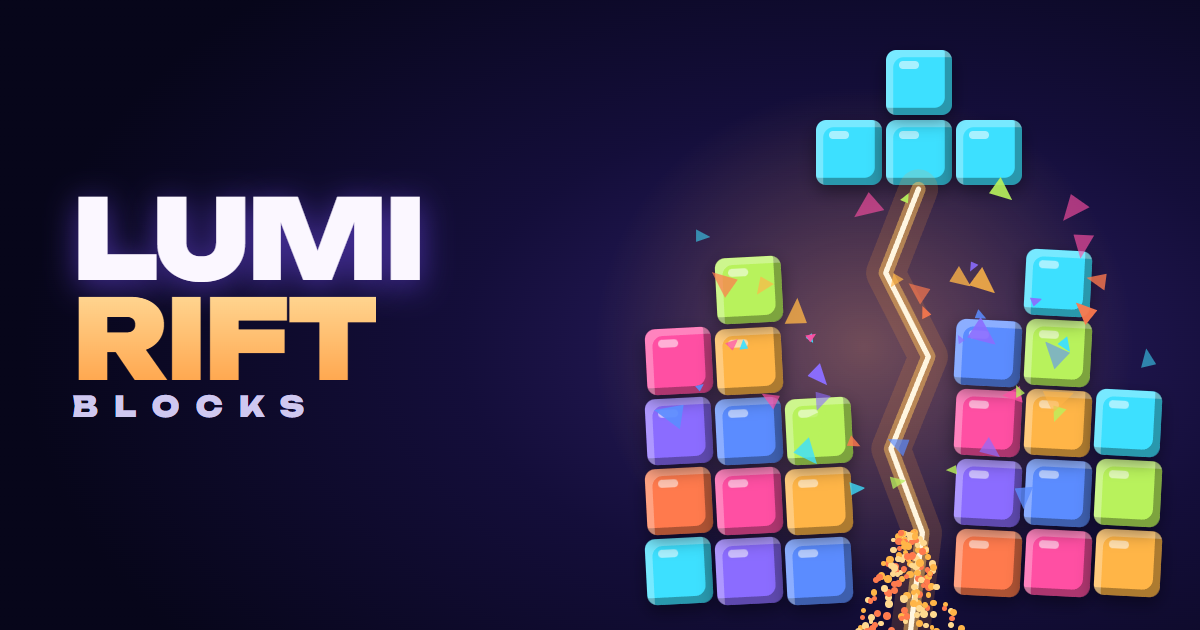
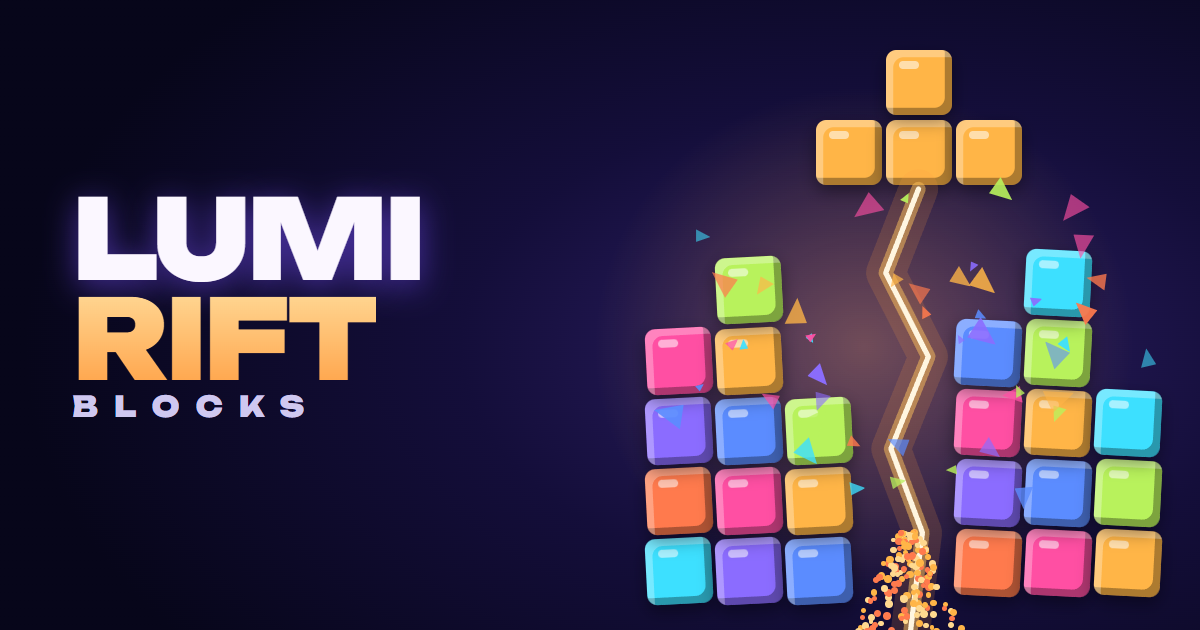
feat: couleurs des pièces loin du standard du genre (1.11.0)
Les sept joyaux sont redistribués : I rose, O violet, T ambre, S cyan,
Z citron vert, J corail, L bleu. L'interface lit des jetons --jewel-*
séparés des teintes des pièces, ses couleurs ne changent pas.
Couvertures, vidéos et image de partage refaites.

Changed region(s): [[0.6783, 0.0603, 0.8633, 0.3016]]

diff --git a/src/ui/hub/AtelierPage.vue b/src/ui/hub/AtelierPage.vue
@@ -343,7 +343,7 @@ watch([material, shatter, ambiance], async () => {
 .kinds button[aria-pressed='true'] {
   background: linear-gradient(
     180deg,
-    color-mix(in srgb, var(--surface-2) 70%, var(--tone-3)),
+    color-mix(in srgb, var(--surface-2) 70%, var(--jewel-violet)),
     var(--surface-2)
   );
   color: var(--text);
@@ -427,9 +427,9 @@ watch([material, shatter, ambiance], async () => {
 
 /* Tried on the stage, not worn yet. */
 .item--shown {
-  border-color: var(--tone-3);
+  border-color: var(--jewel-violet);
   box-shadow:
-    0 0 0 2px color-mix(in srgb, var(--tone-3) 55%, transparent),
+    0 0 0 2px color-mix(in srgb, var(--jewel-violet) 55%, transparent),
     0 4px 0 var(--surface-edge);
 }
 
@@ -451,8 +451,8 @@ watch([material, shatter, ambiance], async () => {
   width: 0.5rem;
   height: 0.5rem;
   border-radius: 50%;
-  background: var(--tone-5);
-  box-shadow: 0 0 0.5rem color-mix(in srgb, var(--tone-5) 70%, transparent);
+  background: var(--jewel-rose);
+  box-shadow: 0 0 0.5rem color-mix(in srgb, var(--jewel-rose) 70%, transparent);
 }
 
 .item__new {
@@ -461,13 +461,13 @@ watch([material, shatter, ambiance], async () => {
   left: var(--space-2);
   padding: 0.1rem 0.4rem;
   border-radius: 999px;
-  background: var(--tone-5);
+  background: var(--jewel-rose);
   color: var(--bg);
   font-size: 0.6rem;
   font-weight: 800;
   letter-spacing: 0.05em;
   text-transform: uppercase;
-  box-shadow: 0 0.25rem 0.7rem color-mix(in srgb, var(--tone-5) 45%, transparent);
+  box-shadow: 0 0.25rem 0.7rem color-mix(in srgb, var(--jewel-rose) 45%, transparent);
 }
 
 .item__lock {

diff --git a/src/styles/tokens.css b/src/styles/tokens.css
@@ -52,14 +52,23 @@
   --well-glow: rgb(120 90 255 / 0.22);
   --well-halo: rgb(74 63 134 / 0.18);
 
-  --tone-1: #3de0ff;
-  --tone-2: #ffb547;
-  --tone-3: #8b6cff;
-  --tone-4: #b8f25c;
-  --tone-5: #ff4fa3;
-  --tone-6: #5b8cff;
-  --tone-7: #ff7a4d;
-  --tone-8: #ff4fa3;
+  /* The jewels: the interface names them, the pieces wear them. */
+  --jewel-cyan: #3de0ff;
+  --jewel-amber: #ffb547;
+  --jewel-violet: #8b6cff;
+  --jewel-lime: #b8f25c;
+  --jewel-rose: #ff4fa3;
+  --jewel-blue: #5b8cff;
+  --jewel-coral: #ff7a4d;
+
+  --tone-1: var(--jewel-rose);
+  --tone-2: var(--jewel-violet);
+  --tone-3: var(--jewel-amber);
+  --tone-4: var(--jewel-cyan);
+  --tone-5: var(--jewel-lime);
+  --tone-6: var(--jewel-coral);
+  --tone-7: var(--jewel-blue);
+  --tone-8: var(--jewel-rose);
   --tone-9: #ffe15c;
   --tone-10: #2ad1b0;
   --tone-11: #7d5cff;

diff --git a/src/ui/hub/MapPage.vue b/src/ui/hub/MapPage.vue
@@ -330,7 +330,7 @@ const shopOpen = ref(false);
 }
 
 .node {
-  --family: var(--tone-3);
+  --family: var(--jewel-violet);
   position: absolute;
   left: var(--x);
   top: var(--y);
@@ -338,15 +338,15 @@ const shopOpen = ref(false);
 }
 
 .node[data-family='sand'] {
-  --family: var(--tone-2);
+  --family: var(--jewel-amber);
 }
 
 .node[data-family='placement'] {
-  --family: var(--tone-5);
+  --family: var(--jewel-rose);
 }
 
 .node[data-family='volume'] {
-  --family: var(--tone-1);
+  --family: var(--jewel-cyan);
 }
 
 .node__button {
@@ -373,7 +373,7 @@ const shopOpen = ref(false);
   border-radius: 50%;
   background: linear-gradient(
     180deg,
-    color-mix(in srgb, var(--surface-2) 78%, var(--tone-3)),
+    color-mix(in srgb, var(--surface-2) 78%, var(--jewel-violet)),
     var(--surface-2)
   );
   box-shadow:

diff --git a/src/ui/screens/HubScreen.vue b/src/ui/screens/HubScreen.vue
@@ -377,7 +377,7 @@ onMounted(() => {
   border-radius: 1.125rem;
   background: linear-gradient(
     180deg,
-    color-mix(in srgb, var(--surface-2) 70%, var(--tone-3)),
+    color-mix(in srgb, var(--surface-2) 70%, var(--jewel-violet)),
     var(--surface-2)
   );
   box-shadow:
@@ -434,13 +434,13 @@ onMounted(() => {
   height: 1.1rem;
   padding: 0 0.3rem;
   border-radius: 999px;
-  background: var(--tone-5);
+  background: var(--jewel-rose);
   color: var(--bg);
   font-size: 0.65rem;
   line-height: 1.1rem;
   letter-spacing: 0;
   text-align: center;
-  box-shadow: 0 0.2rem 0.6rem color-mix(in srgb, var(--tone-5) 50%, transparent);
+  box-shadow: 0 0.2rem 0.6rem color-mix(in srgb, var(--jewel-rose) 50%, transparent);
 }
 
 .tab[aria-selected='true'] :deep(svg) {

diff --git a/src/ui/hub/ModesPage.vue b/src/ui/hub/ModesPage.vue
@@ -120,7 +120,7 @@ const onVariant = (variant: string) => {
 }
 
 .tile {
-  --family: var(--tone-3);
+  --family: var(--jewel-violet);
   position: relative;
   grid-column: span 2;
   min-height: 0;
@@ -151,15 +151,15 @@ const onVariant = (variant: string) => {
 }
 
 .tile[data-family='sand'] {
-  --family: var(--tone-2);
+  --family: var(--jewel-amber);
 }
 
 .tile[data-family='placement'] {
-  --family: var(--tone-5);
+  --family: var(--jewel-rose);
 }
 
 .tile[data-family='volume'] {
-  --family: var(--tone-1);
+  --family: var(--jewel-cyan);
 }
 
 .tile--big {

diff --git a/src/ui/components/GameOverDialog.vue b/src/ui/components/GameOverDialog.vue
@@ -279,13 +279,13 @@ const shownScore = computed(() =>
   top: -0.7rem;
   padding: 0.25rem 0.65rem;
   border-radius: 999px;
-  background: var(--tone-5);
+  background: var(--jewel-rose);
   color: var(--bg);
   font-size: 0.7rem;
   font-weight: 800;
   letter-spacing: 0.06em;
   text-transform: uppercase;
-  box-shadow: 0 0.4rem 1.1rem color-mix(in srgb, var(--tone-5) 50%, transparent);
+  box-shadow: 0 0.4rem 1.1rem color-mix(in srgb, var(--jewel-rose) 50%, transparent);
   animation: pop 520ms var(--ease-spring) 900ms both;
 }
 

diff --git a/src/styles/sheet.css b/src/styles/sheet.css
@@ -24,7 +24,7 @@
   border-radius: 1.75rem 1.75rem 0 0;
   background: linear-gradient(
     180deg,
-    color-mix(in srgb, var(--surface-2) 86%, var(--tone-3)),
+    color-mix(in srgb, var(--surface-2) 86%, var(--jewel-violet)),
     var(--surface) 70%
   );
   color: var(--text);

diff --git a/docs/CRAZYGAMES.md b/docs/CRAZYGAMES.md
@@ -20,16 +20,16 @@ Sources (relues le 20/10/2026) : [Requirements](https://docs.crazygames.com/requ
 
 ### Ce qui a changé depuis la 1.2.0 refusée (à résumer dans le message de soumission)
 
-| Reproche probable (diagnostic du 14/10/2026) | Depuis                                                                                                                                               |
-| -------------------------------------------- | ---------------------------------------------------------------------------------------------------------------------------------------------------- |
-| Accueil de « web app », menu qui défile      | Écran-titre vivant (gemmes, faille), menu en quatre pages à onglets sans défilement, transition de la faille (1.8)                                   |
-| Identité générique, premier mode = clone     | Nom « Lumirift Blocks », identité « Rift » (gemmes gravées, faille dorée, polices propres) ; la campagne s'ouvre sur le Sable, mode inédit (1.4–1.5) |
-| Petit plateau dans un grand écran vide       | Plus d'en-tête pendant la partie, puits sur toute la hauteur, tableau de bord rangé contre le puits (console centrée), paysage jouable (1.7, 1.10)   |
-| Pas de musique                               | Musique générative par famille, sons synthétisés (1.4)                                                                                               |
-| Pas de prise en main                         | Première partie guidée pas à pas (passable), 1-1 calme (une seule idée), touches dessinées à côté du jeu (1.4, 1.10)                                 |
-| Échap et Ctrl utilisés                       | Plus aucun : P pour la pause, Retour arrière pour annuler dans la Mosaïque ; sur les portails, Échap ne ferme même plus une fenêtre (1.4, 1.10)      |
-| Effets plats                                 | Chute instantanée animée, lignes qui éclatent en éclats de gemme, résultats mis en scène (score qui défile, barre d'XP), feuilles animées (1.7, 1.9) |
-| Téléphone                                    | Tout au doigt (gestes partout), aucun défilement, portrait et paysage, fenêtres qui tiennent à l'écran (1.7–1.9)                                     |
+| Reproche probable (diagnostic du 14/10/2026) | Depuis                                                                                                                                                                                                       |
+| -------------------------------------------- | ------------------------------------------------------------------------------------------------------------------------------------------------------------------------------------------------------------ |
+| Accueil de « web app », menu qui défile      | Écran-titre vivant (gemmes, faille), menu en quatre pages à onglets sans défilement, transition de la faille (1.8)                                                                                           |
+| Identité générique, premier mode = clone     | Nom « Lumirift Blocks », identité « Rift » (gemmes gravées, faille dorée, polices propres) ; la campagne s'ouvre sur le Sable, mode inédit (1.4–1.5) ; aucune pièce aux couleurs du standard du genre (1.11) |
+| Petit plateau dans un grand écran vide       | Plus d'en-tête pendant la partie, puits sur toute la hauteur, tableau de bord rangé contre le puits (console centrée), paysage jouable (1.7, 1.10)                                                           |
+| Pas de musique                               | Musique générative par famille, sons synthétisés (1.4)                                                                                                                                                       |
+| Pas de prise en main                         | Première partie guidée pas à pas (passable), 1-1 calme (une seule idée), touches dessinées à côté du jeu (1.4, 1.10)                                                                                         |
+| Échap et Ctrl utilisés                       | Plus aucun : P pour la pause, Retour arrière pour annuler dans la Mosaïque ; sur les portails, Échap ne ferme même plus une fenêtre (1.4, 1.10)                                                              |
+| Effets plats                                 | Chute instantanée animée, lignes qui éclatent en éclats de gemme, résultats mis en scène (score qui défile, barre d'XP), feuilles animées (1.7, 1.9)                                                         |
+| Téléphone                                    | Tout au doigt (gestes partout), aucun défilement, portrait et paysage, fenêtres qui tiennent à l'écran (1.7–1.9)                                                                                             |
 
 ## Produire le build et les médias
 
@@ -103,7 +103,7 @@ langue, sauvegarde, coupure du son et publicités. Notre site ne charge jamais l
 - **Genre** : Puzzle (blocs qui tombent). **Public** : PEGI 3 de fait (aucune violence, aucun
   achat, aucun chat).
 
-## Contrôle des exigences (1.10.0)
+## Contrôle des exigences (1.11.0)
 
 Légende : ✅ conforme, vérifié · 🟡 conforme, vérification humaine à faire sur le portail ·
 ➖ sans objet.
@@ -168,16 +168,16 @@ autre façon de gagner le bonus.
 
 ### Covers et vidéos
 
-| Exigence                                                   | Statut | Preuve                                                                    |
-| ---------------------------------------------------------- | ------ | ------------------------------------------------------------------------- |
-| Paysage 1920 × 1080, portrait 800 × 1200, carrée 800 × 800 | ✅     | Générées aux dimensions exactes                                           |
-| Visuels cohérents entre les trois                          | ✅     | Même scène : pile de gemmes, faille, éclats, titre                        |
-| Seul texte : le titre                                      | ✅     | « Lumirift Blocks » uniquement                                            |
-| Pas de bordure, d'icône de store ni de visuel sous droits  | ✅     | Logo du jeu seulement                                                     |
-| Vidéo 15 à 20 s, ≤ 50 Mo, 1080p paysage et portrait 2:3    | ✅     | 17,9 s ; 1920 × 1080 et 1080 × 1620 ; refaites en 1.10 avec le jeu actuel |
-| Pas d'écran noir, de bandes noires, de curseur, de texte   | ✅     | Images rendues directement, plein cadre ; s'ouvre sur la cover            |
-| Sans son, pas d'accéléré                                   | ✅     | Aucune piste audio ; rendu image par image (30 i/s)                       |
-| Format                                                     | 🟡     | WebM (VP9) : convertir en MP4 (HandBrake) si le portail le refuse         |
+| Exigence                                                   | Statut | Preuve                                                                             |
+| ---------------------------------------------------------- | ------ | ---------------------------------------------------------------------------------- |
+| Paysage 1920 × 1080, portrait 800 × 1200, carrée 800 × 800 | ✅     | Générées aux dimensions exactes                                                    |
+| Visuels cohérents entre les trois                          | ✅     | Même scène : pile de gemmes, faille, éclats, titre                                 |
+| Seul texte : le titre                                      | ✅     | « Lumirift Blocks » uniquement                                                     |
+| Pas de bordure, d'icône de store ni de visuel sous droits  | ✅     | Logo du jeu seulement                                                              |
+| Vidéo 15 à 20 s, ≤ 50 Mo, 1080p paysage et portrait 2:3    | ✅     | 17,9 s ; 1920 × 1080 et 1080 × 1620 ; refaites en 1.11 avec les nouvelles couleurs |
+| Pas d'écran noir, de bandes noires, de curseur, de texte   | ✅     | Images rendues directement, plein cadre ; s'ouvre sur la cover                     |
+| Sans son, pas d'accéléré                                   | ✅     | Aucune piste audio ; rendu image par image (30 i/s)                                |
+| Format                                                     | 🟡     | WebM (VP9) : convertir en MP4 (HandBrake) si le portail le refuse                  |
 
 ### Qualité (recommandations)
 

diff --git a/docs/CAHIER_DES_CHARGES.md b/docs/CAHIER_DES_CHARGES.md
@@ -2,7 +2,7 @@
 
 | Version | Date       | Statut               |
 | ------- | ---------- | -------------------- |
-| 1.10    | 20/10/2026 | Prêt pour CrazyGames |
+| 1.11    | 21/10/2026 | Prêt pour CrazyGames |
 
 Document vivant : il est mis à jour à chaque étape livrée (voir § 12, journal).
 
@@ -66,7 +66,10 @@ Différenciation :
   « ligne ».
 - Les règles d'un jeu ne sont pas protégeables, mais **l'apparence** l'est (jurisprudence
   _Tetris Holding v. Xio Interactive_, 2012) : Lumirift utilise sa **propre palette**, son
-  propre habillage du puits et ses propres noms de modes.
+  propre habillage du puits et ses propres noms de modes. Depuis la 1.11, **aucune pièce ne
+  porte la couleur du standard** (I cyan, O jaune, T violet, S vert, Z rouge, J bleu, L orange) :
+  I rose, O violet, T ambre, S cyan, Z citron vert, J corail, L bleu (`--tone-N` dans
+  `tokens.css`, distincts des jetons `--jewel-*` de l'interface).
 - Nom de travail : **Lumirift** (« la faille dans la pile »), prononçable dans les trois
   langues. Vérification de disponibilité (marque, domaine, réseaux) à faire avant lancement.
 
@@ -1316,3 +1319,4 @@ achats) arrive avec les versions portails, après la 1.0 (§ 3.7). Voir § 11.
 | 1.8     | 20/10/2026 | Le menu à onglets : Accueil, Modes, Carte, Atelier sans défilement, glissement, rail en paysage, transition de la faille (§ 3.2 ter, § 5.6).                      |
 | 1.9     | 20/10/2026 | Les fenêtres en feuilles sans défilement, résultats mis en scène, garde à l'ouverture (§ 4.2, § 5.6).                                                             |
 | 1.10    | 20/10/2026 | Prêt pour CrazyGames : 1-1 calme, touches dessinées, console centrée, pubs par portail (§ 3.7), vidéos refaites.                                                  |
+| 1.11    | 21/10/2026 | Couleurs des pièces loin du standard du genre (§ 2), menus inchangés, médias refaits.                                                                             |

diff --git a/CHANGELOG.md b/CHANGELOG.md
@@ -3,6 +3,15 @@
 Format : [Keep a Changelog](https://keepachangelog.com/fr/1.1.0/), versions
 [SemVer](https://semver.org/lang/fr/).
 
+## [1.11.0] — 21/10/2026
+
+### Modifié
+
+- **Couleurs des pièces redistribuées** : aucune pièce ne porte plus la couleur que lui donne le
+  standard du genre (I rose, O violet, T ambre, S cyan, Z citron vert, J corail, L bleu). Mêmes
+  sept joyaux, mêmes textures ; les menus gardent exactement leurs couleurs (jetons
+  `--jewel-*` séparés des teintes des pièces). Couvertures et vidéos CrazyGames refaites.
+
 ## [1.10.0] — 20/10/2026
 
 Prêt pour une nouvelle soumission à CrazyGames : revue complète du build comme un modérateur,
